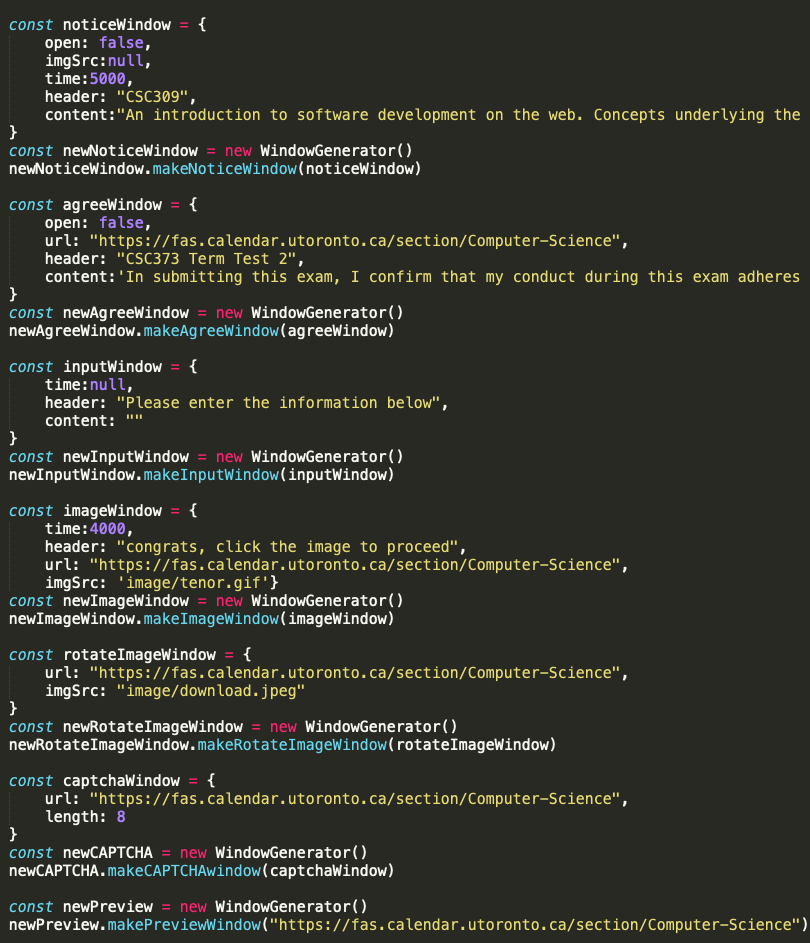
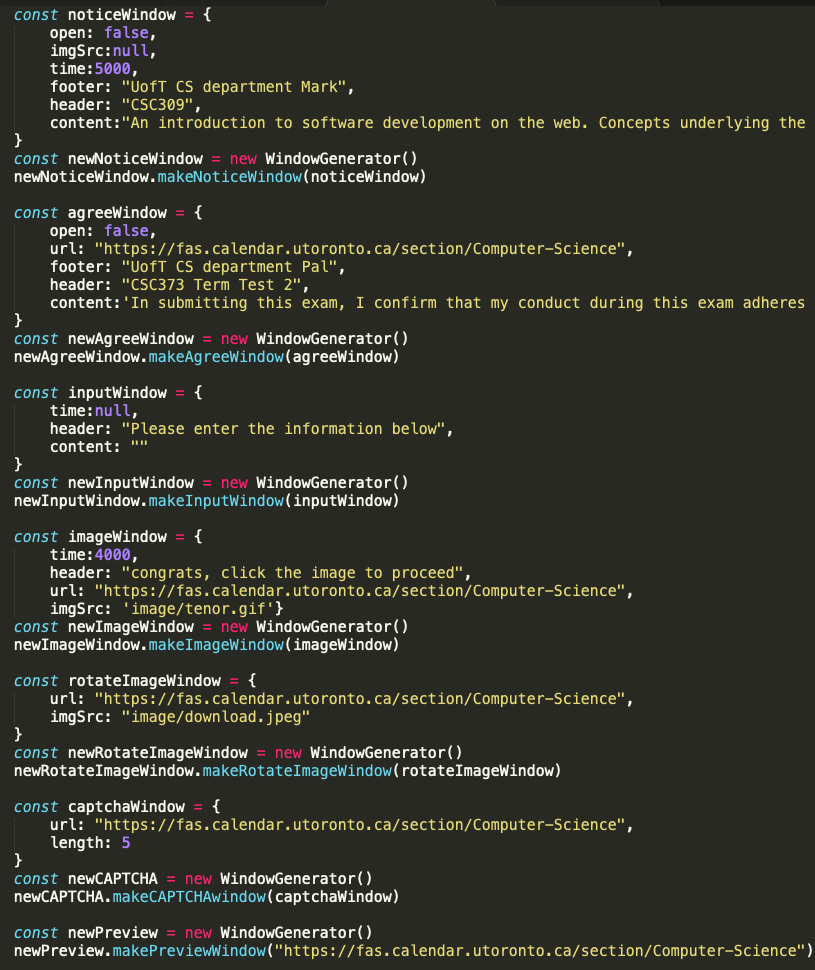
added footer

Changed region(s): [[0.0, 0.0, 0.9877, 1.0]]

diff --git a/pub/notify.js b/pub/notify.js
@@ -4,13 +4,15 @@ function WindowGenerator() {
     time: null,
     header: "this is the notice header",
     content: "this is the notice content",
-    open: false
+    open: false,
+    footer: "this is the notice footer"
   } 
   this.defaultAgreeWindow = {
-    header: "this is the notice header",
-    content: "this is the notice content",
+    header: "this is the agree header",
+    content: "this is the agree content",
     url: null,
-    open: false
+    open: false,
+    footer: "this is agree footer"
   } 
   this.defaultInputWindow = {
     time:null,
@@ -47,10 +49,10 @@ WindowGenerator.prototype = {
       // }
       let window;
       if (agreeWindow.open) {
-        window = '<div class="agree-popup-overlay"><div class="agree-popup-content"><article><h2>'.concat('<div class="agreeWindowHeader">',agreeWindow.header,'</div></h2><p><div class="agreeWindowContent">',agreeWindow.content,'.</div></p></article><button id = "AgreeButton" onclick="handleClick()" class="close">I Agree</button> <button id = "DisagreeButton" onclick="handleClick()" class="close">I Disagree</button><footer><p>Author: UofT CS department</p></footer></div></div>')
+        window = '<div class="agree-popup-overlay"><div class="agree-popup-content"><article><h2>'.concat('<div class="agreeWindowHeader">',agreeWindow.header,'</div></h2><p><div class="agreeWindowContent">',agreeWindow.content,'</div></p></article><button id = "AgreeButton" onclick="handleClick()" class="close">I Agree</button> <button id = "DisagreeButton" onclick="handleClick()" class="close">I Disagree</button><footer><p>',agreeWindow.footer,'</p></footer></div></div>')
       }
       else {
-        window = '<button id = "openAgreeButton" onclick="handleClick()" class="open">Open Agree Window</button><div class="agree-popup-overlay"><div class="agree-popup-content"><article><h2>'.concat('<div class="agreeWindowHeader">',agreeWindow.header,'</div></h2><p><div class="agreeWindowContent">',agreeWindow.content,'.</div></p></article><button id = "AgreeButton" onclick="handleClick()" class="close">I Agree</button> <button id = "DisagreeButton" onclick="handleClick()" class="close">I Disagree</button><footer><p>Author: UofT CS department</p></footer></div></div>')
+        window = '<button id = "openAgreeButton" onclick="handleClick()" class="open">Open Agree Window</button><div class="agree-popup-overlay"><div class="agree-popup-content"><article><h2>'.concat('<div class="agreeWindowHeader">',agreeWindow.header,'</div></h2><p><div class="agreeWindowContent">',agreeWindow.content,'</div></p></article><button id = "AgreeButton" onclick="handleClick()" class="close">I Agree</button> <button id = "DisagreeButton" onclick="handleClick()" class="close">I Disagree</button><footer><p>',agreeWindow.footer,'</p></footer></div></div>')
       }
       $('#AgreeWindowLocation').html(window);
       if (agreeWindow.open) {
@@ -91,17 +93,17 @@ WindowGenerator.prototype = {
   const noticeWindow = Object.assign(this.defaultNoticeWindow, inputObject)
   let window;
   if(noticeWindow.imgSrc !== null && !noticeWindow.open) {
-    window = '<button id = "openNoticeButton" onclick="handleClick()" class="open">Open Notice Window</button><div class="notice-popup-overlay"><div class="notice-popup-content"><article><h2>'.concat('<div class="noticeWindowHeader">',noticeWindow.header,'</div></h2><p><div class="noticeWindowContent">',noticeWindow.content,'.</div></p></article><img src = "',noticeWindow.imgSrc,'"/><br><button id = "closeNoticeButton" onclick="handleClick()" class="close">Close</button> <footer><p>Author: UofT CS department</p></footer></div></div>')
+    window = '<button id = "openNoticeButton" onclick="handleClick()" class="open">Open Notice Window</button><div class="notice-popup-overlay"><div class="notice-popup-content"><article><h2>'.concat('<div class="noticeWindowHeader">',noticeWindow.header,'</div></h2><p><div class="noticeWindowContent">',noticeWindow.content,'.</div></p></article><img src = "',noticeWindow.imgSrc,'"/><br><button id = "closeNoticeButton" onclick="handleClick()" class="close">Close</button> <footer><p>',noticeWindow.footer,'</p></footer></div></div>')
   }
   else if (noticeWindow.imgSrc === null && !noticeWindow.open) {
-    window = '<button id = "openNoticeButton" onclick="handleClick()" class="open">Open Notice Window</button><div class="notice-popup-overlay"><div class="notice-popup-content"><article><h2>'.concat('<div class="noticeWindowHeader">',noticeWindow.header,'</div></h2><p><div class="noticeWindowContent">',noticeWindow.content,'.</div></p></article><button id = "closeNoticeButton" onclick="handleClick()" class="close">Close</button> <footer><p>Author: UofT CS department</p></footer></div></div>')  
+    window = '<button id = "openNoticeButton" onclick="handleClick()" class="open">Open Notice Window</button><div class="notice-popup-overlay"><div class="notice-popup-content"><article><h2>'.concat('<div class="noticeWindowHeader">',noticeWindow.header,'</div></h2><p><div class="noticeWindowContent">',noticeWindow.content,'.</div></p></article><button id = "closeNoticeButton" onclick="handleClick()" class="close">Close</button> <footer><p>',noticeWindow.footer,'</p></footer></div></div>')  
   }
   else if (noticeWindow.imgSrc !== null && noticeWindow.open) {
-    window = '<div class="notice-popup-overlay"><div class="notice-popup-content"><article><h2>'.concat('<div class="noticeWindowHeader">',noticeWindow.header,'</div></h2><p><div class="noticeWindowContent">',noticeWindow.content,'.</div></p></article><img src = "',noticeWindow.imgSrc,'"/><br><button id = "closeNoticeButton" onclick="handleClick()" class="close">Close</button> <footer><p>Author: UofT CS department</p></footer></div></div>')
+    window = '<div class="notice-popup-overlay"><div class="notice-popup-content"><article><h2>'.concat('<div class="noticeWindowHeader">',noticeWindow.header,'</div></h2><p><div class="noticeWindowContent">',noticeWindow.content,'.</div></p></article><img src = "',noticeWindow.imgSrc,'"/><br><button id = "closeNoticeButton" onclick="handleClick()" class="close">Close</button> <footer><p>',noticeWindow.footer,'</p></footer></div></div>')
   
   }
   else if (noticeWindow.imgSrc === null && noticeWindow.open) {
-    window = '<div class="notice-popup-overlay"><div class="notice-popup-content"><article><h2>'.concat('<div class="noticeWindowHeader">',noticeWindow.header,'</div></h2><p><div class="noticeWindowContent">',noticeWindow.content,'.</div></p></article><button id = "closeNoticeButton" onclick="handleClick()" class="close">Close</button> <footer><p>Author: UofT CS department</p></footer></div></div>')  
+    window = '<div class="notice-popup-overlay"><div class="notice-popup-content"><article><h2>'.concat('<div class="noticeWindowHeader">',noticeWindow.header,'</div></h2><p><div class="noticeWindowContent">',noticeWindow.content,'.</div></p></article><button id = "closeNoticeButton" onclick="handleClick()" class="close">Close</button> <footer><p>',noticeWindow.footer,'</p></footer></div></div>')  
   
   }
     $('#NoticeWindowLocation').html(window);

diff --git a/pub/api.html b/pub/api.html
@@ -21,7 +21,7 @@
     <div class="functions">
       <h2> makeNoticeWindow(inputObject) </h2>
       <h3 class="subsection"> Description:</h3>
-      <h3 class="subtext"> This function creates a notice window with header, content, close button, image(optional), timer(optional), and inserts the resulting html to the corresponding notice window div.</h3>
+      <h3 class="subtext"> This function creates a notice window with header, content, footer, close button, image(optional), timer(optional), and inserts the resulting html to the corresponding notice window div.</h3>
       <h3 class="subsection"> Arguments:</h3>
       <h3 class="subtext"> This function takes in an object that have the following properties:</h3>
       <table class="argsTable" border: 1px solid black >
@@ -39,6 +39,11 @@
           <th>content</th>
           <th>String</th>
           <th>The content of the notice window</th>
+        </tr>
+        <tr align= "left">
+          <th>footer</th>
+          <th>String</th>
+          <th>The footer of the notice window</th>
         </tr>
         <tr align= "left">
           <th>time</th>
@@ -146,7 +151,7 @@
     <div class="functions">
       <h2> makeAgreeWindow(inputObject) </h2>
       <h3 class="subsection"> Description:</h3>
-      <h3 class="subtext"> This function creates an agree window with header, content, agree button that goes to other links, disagree button to stay on the page, and inserts the resulting html to the corresponding agree window div.</h3>
+      <h3 class="subtext"> This function creates an agree window with header, content, footer, agree button that goes to other links, disagree button to stay on the page, and inserts the resulting html to the corresponding agree window div.</h3>
       <h3 class="subsection"> Arguments:</h3>
       <h3 class="subtext"> This function takes in an object that have the following propeties:</h3>
       <table class="argsTable">
@@ -164,6 +169,11 @@
           <th>content</th>
           <th>String</th>
           <th>The content of the agree window</th>
+        </tr>
+        <tr align= "left">
+          <th>footer</th>
+          <th>String</th>
+          <th>The footer of the agree window</th>
         </tr>
         <tr align= "left">
           <th>url</th>
@@ -266,7 +276,7 @@
     <div class="functions">
       <h2> makeInputWindow(inputObject)  </h2>
       <h3 class="subsection"> Description:</h3>
-      <h3 class="subtext"> This function creates a input window with header, content, first name and last name input fills, submit button, close button, timer(optional), and inserts the resulting html to the corresponding input window div</h3>
+      <h3 class="subtext"> This function creates a input window with header, content, first name and last name input fills, submit button, close button, timer(optional), and inserts the resulting html to the corresponding input window div. The submitted first and last name will be in the url for developers' further uses.</h3>
       <h3 class="subsection"> Arguments:</h3>
       <h3 class="subtext"> This function takes in an object that have the following properties:</h3>
       <table class="argsTable">

diff --git a/pub/examples.js b/pub/examples.js
@@ -2,6 +2,7 @@ const noticeWindow = {
     open: false,
     imgSrc:null,
     time:5000,
+    footer: "UofT CS department Mark",
     header: "CSC309",
     content:"An introduction to software development on the web. Concepts underlying the development of programs that operate on the web; survey of technological alternatives; greater depth on some technologies. Operational concepts of the internet and the web, static client content, dynamic client content, dynamically served content, n-tiered architectures, web development processes, and security on the web. Assignments involve increasingly more complex web-based programs. Guest lecturers from leading e-commerce firms will describe the architecture and operation of their web sites."
 }
@@ -11,6 +12,7 @@ newNoticeWindow.makeNoticeWindow(noticeWindow)
 const agreeWindow = {
     open: false,
     url: "https://fas.calendar.utoronto.ca/section/Computer-Science",
+    footer: "UofT CS department Pal",
     header: "CSC373 Term Test 2",
     content:'In submitting this exam, I confirm that my conduct during this exam adheres to the Code of Behaviour on Academic Matters. I confirm that I did NOT act in such a way that would constitute cheating, misrepresentation, or unfairness, including but not limited to, using unauthorized aids and assistance, personating another person, and committing plagiarism.'
 }

diff --git a/README.md b/README.md
@@ -48,6 +48,7 @@ const noticeWindow = {
     open: false,
     imgSrc:null,
     time:5000,
+    footer: "UofT CS department Mark",
     header: "CSC309",
     content:"An introduction to software development on the web. Concepts underlying the development of programs that operate on the web; survey of technological alternatives; greater depth on some technologies. Operational concepts of the internet and the web, static client content, dynamic client content, dynamically served content, n-tiered architectures, web development processes, and security on the web. Assignments involve increasingly more complex web-based programs. Guest lecturers from leading e-commerce firms will describe the architecture and operation of their web sites."
 }
@@ -57,6 +58,7 @@ newNoticeWindow.makeNoticeWindow(noticeWindow)
 const agreeWindow = {
     open: false,
     url: "https://fas.calendar.utoronto.ca/section/Computer-Science",
+    footer: "UofT CS department Pal",
     header: "CSC373 Term Test 2",
     content:'In submitting this exam, I confirm that my conduct during this exam adheres to the Code of Behaviour on Academic Matters. I confirm that I did NOT act in such a way that would constitute cheating, misrepresentation, or unfairness, including but not limited to, using unauthorized aids and assistance, personating another person, and committing plagiarism.'
 }
